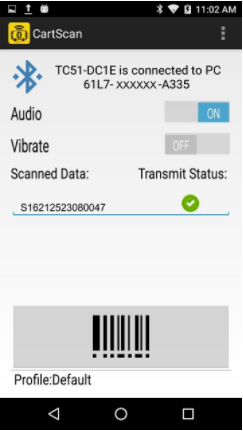
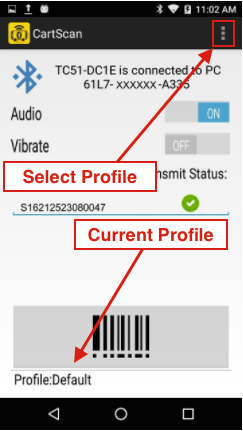
[TUT-21453] CartScan 2.1 Setup, Usage pages

diff --git a/src/cartscan/2-1/guide/usage/index.md b/src/cartscan/2-1/guide/usage/index.md
@@ -9,104 +9,53 @@ productversion: '2.1'
 
 CartScan uses Bluetooth to turn a [supported Zebra mobile device](../about/#supporteddevices) into a wireless barcode scanner, sending collected data as keystrokes to a nearby computer running a line-of-business application. CartScan was initially developed for healthcare workers, but has applications in the warehouse, transportation and logistics, and numerous other industries. 
 
-## Using CartScan
+### Connecting PC to Mobile Device
 
-This section explains how to use CartScan and CartScanPCWedge. Topics include connecting the mobile device to the PC, performing a successful scan, transferring data to the PC, and re-establishing a Bluetooth connection.
+**NOTE**: If the mobile device was not previously paired with the PC, see the [Setup guide](../setup/#3enablebluetoothpairdevices).
 
+**To connect the mobile device to target PC**:
 
-### Connecting the Mobile Device and PC
-
-NOTE:  If the mobile device was not previously paired to the PC before connecting, the user is prompted to pair the mobile device. For pairing instructions, see Post Installation Tasks on page 13.
-
-To connect the mobile device and target PC:
-On the target PC, launch the CartScan PC Wedge application.
-On the mobile device, launch the CartScan application.
-Using the mobile device, scan the barcode displayed on the CartScanPCWedge screen. Once scanned, the mobile device attempts to establish the connection to the PC.
-Figure 22	
-
-
-
+1. On the target PC, launch CartScanPCWedge.
+2. On the mobile device, launch the CartScan app.
+3. Using the mobile device, scan the barcode displayed on the CartScanPCWedge screen. Once scanned, the mobile device attempts to establish the connection to the PC.
 
 <img alt="" style="height:350px" src="figure_22.png"/>
-_Connecting Screen_
+_Connecting screen and instructions on PC_
 <br>
 
+### Using CartScan
 
-1:21 PM
-Profile selection icon Connection status
+**To use CartScan**:
 
-Audio/Vibrate toggle buttons
+With the mobile device connected to the target PC:
 
- _	Data scanned/transmit status
-
-
-
-
-Scan button Profile
-
-
-## Using CartScan
-
-To use CartScan:
-
-Ensure the mobile device and target PC are connected.
-Launch the LOB application to receive the intended scan data on the target PC.
-Ensure the LOB application is in the foreground (i.e., visible and in front of any other open applications) on the PC monitor.
-Place the cursor in the target input field of the LOB application to which scanned data should be deposited.
-On the mobile device, select the Profile to be used for the scanning workflow.
-
-
-Figure 23	
-
+1. On the target PC, **launch the "line-of-business" app** intended to receive the scanned data.
+2. **Place the cursor in the target input field** of the LOB app into which scanned data should be deposited.
+3. On the mobile device, **select the Profile** to be used for the scanning workflow.
 <img alt="" style="height:350px" src="figure_23.png"/>
-_Profile Selection_
+_Profile selection_
 <br>
-
-
-Profile selection icon
- 
- 
-
-
-
-Data scanned/transmit status
-
-
-
-
-
-
-Scan the desired workflow barcode(s) using the mobile device. The data scanned by the mobile device displays in the scan data field.
-
-NOTE:  When a barcode is successfully decoded by the mobile device, the scanner beeps or vibrates (if enabled). A beep does not reflect the status of the transmission of the scanned data to the PC.
-
-When data is scanned by the mobile device and received by the PC, the CartScan application displays a green check box under Transmit Status (see Figure 23).
-On the PC, the user should confirm that the data scanned was delivered properly into the target application. For example, if the cursor was moved, the PC was locked, or another application appeared in the foreground (i.e., visible and in front of any other open applications) of the PC, the data cannot populate into the intended input field.
-Acquired data is sent as keystrokes to the PC. The scanned data displays in the Scanned Data field of the application on the mobile device. A green check mark indicates successful transmission of the data to the PC.
-
-
-Figure 24	
-
-
-
-
+4. Scan the desired workflow barcode(s) using the mobile device. <br>Scanned data appears in the "Scanned Data" field:
 <img alt="" style="height:350px" src="figure_24.png"/>
-_Successful Scan_
 <br>
+**NOTE**: When a barcode is successfully decoded by the mobile device, the scanner beeps and/or vibrates (if enabled). **A beep does not reflect successful transmission of the scanned data to the PC**.
+5. **Confirm successful transmission of scanned data** to the PC by looking for a green check mark under "Transmit Status" as seen above. 
+6. **Repeat Steps 4 and 5** until all data is acquired. [See Notes](#notes), below. 
 
+## Notes
 
-To continue scanning data, repeat Step 6 through Step 8. Before scanning, confirm that the mobile device is still connected via Bluetooth to the target PC. If the mobile device goes out of range of the PC or loses connection due to a timeout, a message displays indicating that the mobile device is disconnected from the PC.
-Figure 25	
-
+* If the mobile device goes out of range of the PC or loses connection due to a timeout, a message similar to the one pictured below appears indicating that the mobile device is disconnected from the PC:
 <img alt="" style="height:350px" src="figure_25.png"/>
 _Mobile Device is Disconnected from PC_
 <br>
+* On the PC, the user should periodically confirm that the scanned data is delivered properly to the target application. If the cursor was moved out of the target app, another application appeared in the foreground, or Windows caused the PC to lock, the data will not populate into the intended input field. 
+* If a barcode is scanned without an active connection to the PC, an alert dialog displays and data is not transmitted to the PC. A red “x” indicates the failure. The scanner still beeps or vibrates (if enabled) and the scan data appears in the Mobile Device Scanned Data field only, but not on the PC.
+* The disconnect message may not appear immediately. To re-connect, see Re-Establishing the Bluetooth Connection on page 35.
 
 
-NOTE: The disconnect message may not appear immediately. To re-connect, see Re-Establishing the Bluetooth Connection on page 35.
+Confirm that the mobile device is still connected to the target PC and the cursor is advancing to the desired fields. 
 
 
-If a barcode is scanned without an active connection to the PC, an alert dialog displays and data is not transmitted to the PC. A red “x” indicates the failure. The scanner still beeps or vibrates (if enabled) and the scan data appears in the Mobile Device Scanned Data field only, but not on the PC.
 
 Figure 26	
 
@@ -156,23 +105,6 @@ Follow the instructions to connect the mobile device, displayed below the barcod
 
 Overview
 This chapter provides best practices and troubleshooting for the Zebra CartScan and CartScan PC Wedge applications.
-
-
-## Best Practices
-Zebra strongly recommends that IT administrators, workflow managers (when applicable), and end users follow these suggested best practices.
-Best Practices for IT Administrators and Workflow Managers
-
-NOTE: DO NOT MODIFY CARTSCAN PROFILES FROM WITHIN DATAWEDGE ON THE MOBILE DEVICE.
-
-Create the necessary CartScan Profile(s) required for the end user scanning workflow(s). See Configuring Profiles on page 19.
-
-Use CartScan Profile(s) to test scanning into the target PC-based workflow applications to ensure compatibility and desired behavior.
-
-Create the proper training materials and guidelines for end users on the proper use of CartScan, its features, and functionality. This minimizes errors when scanning with CartScan.
-
-Deploy the CartScan application along with the required end user workflow Profiles to the target mobile devices.
-
-Prior to deploying the mobile devices to the end user, pair each mobile device to each of the targeted end user workstations.
 
 
 ## Best Practices for the End User

diff --git a/src/cartscan/2-1/guide/setup/index.md b/src/cartscan/2-1/guide/setup/index.md
@@ -9,7 +9,7 @@ productversion: '2.1'
 
 After processing a software order, Zebra Software Distribution Services emails an activation ID and software download instructions **to the customer contact provided with the order**. The instructions apply to both CartScanPCWedge (for the PC) and the CartScan app for the Zebra Android device. 
 
-**Note**: Target devices must meet the minimum [system requirements](../about/#overview). 
+**NOTE**: Target devices must meet the minimum [system requirements](../about/#overview). 
 
 > **Zebra recommends that an IT associate perform first-time setup in advance**.
 
@@ -56,9 +56,7 @@ CartScanPCWedge installation is complete.
 
 ### 2. Install on Mobile Device
 
-**Instructions for downloading and installing CartScan are emailed to the customer contact** provided to Zebra Software Distribution Services along with the original software order.
-
-The `CartScan.apk` installer package can be downloaded from [Zebra AppGallery](https://appgallery.zebra.com/home) or from the [Google Play Store](https://play.google.com/store?hl=en) and installed using the standard procedure. 
+**Instructions for downloading and installing CartScan are emailed to the customer contact** provided to Zebra Software Distribution Services along with the original software order. The `CartScan.apk` installer package can be downloaded from [Zebra AppGallery](https://appgallery.zebra.com/home) or from the [Google Play Store](https://play.google.com/store?hl=en) and installed using the standard procedure. 
 
 -----
 
@@ -111,6 +109,19 @@ _Pair mobile device to PC_
 * Bluetooth pairing dialog appears only if mobile device was not previously paired with that PC.
 * Allowing access to contacts and call history (checkbox) is not required for CartScan.
 * Multiple mobile devices can be paired via Bluetooth to an individual PC, but only one mobile device can connect to CartScanPCWedge at a time.
+
+-----
+
+## Admin Best Practices
+
+> **Zebra strongly recommends following these suggested best practices**:
+
+1. **DO NOT MODIFY CARTSCAN PROFILES FROM WITHIN DATAWEDGE ON THE MOBILE DEVICE**. Doing so will result in unpredictable CartScan behavior. 
+2. **Create all necessary CartScan Profile(s) for the end-user scanning workflow(s)**. See [Settings page](../settings) for details.
+3. **Before deployment, always test CartScan Profile(s)** with the intended line-of-business application(s) to ensure compatibility and desired behavior.
+4. **Create the end-user training materials and guidelines** for proper use of CartScan, its features and functions. This minimizes errors when scanning with CartScan.
+5. **Deploy workflow Profiles along with the CartScan app** when staging target mobile devices.
+6. **Pair each mobile device to its intended end-user workstation** prior to deployment to end users.  
 
 -----
 
